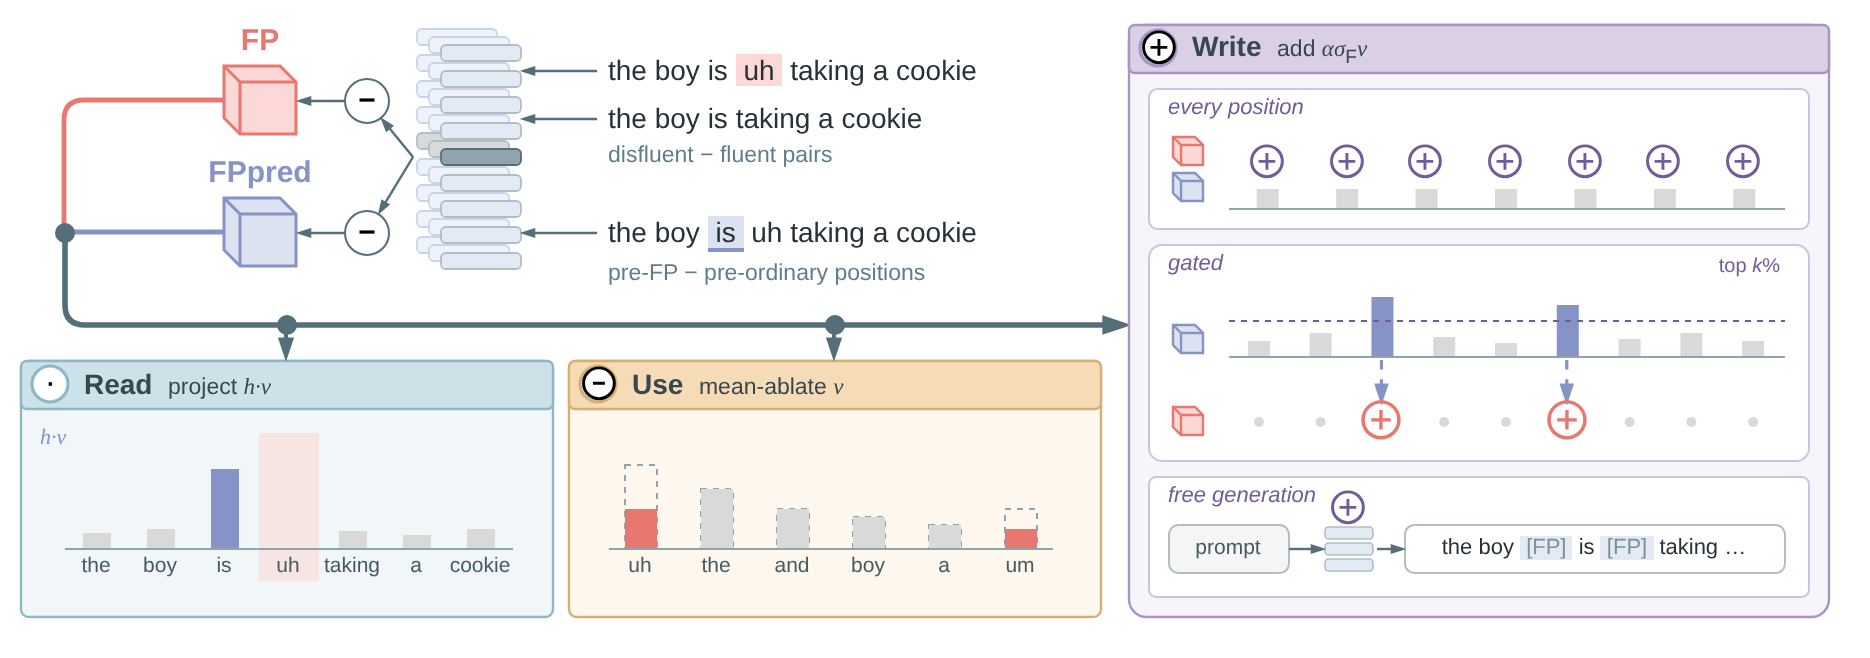
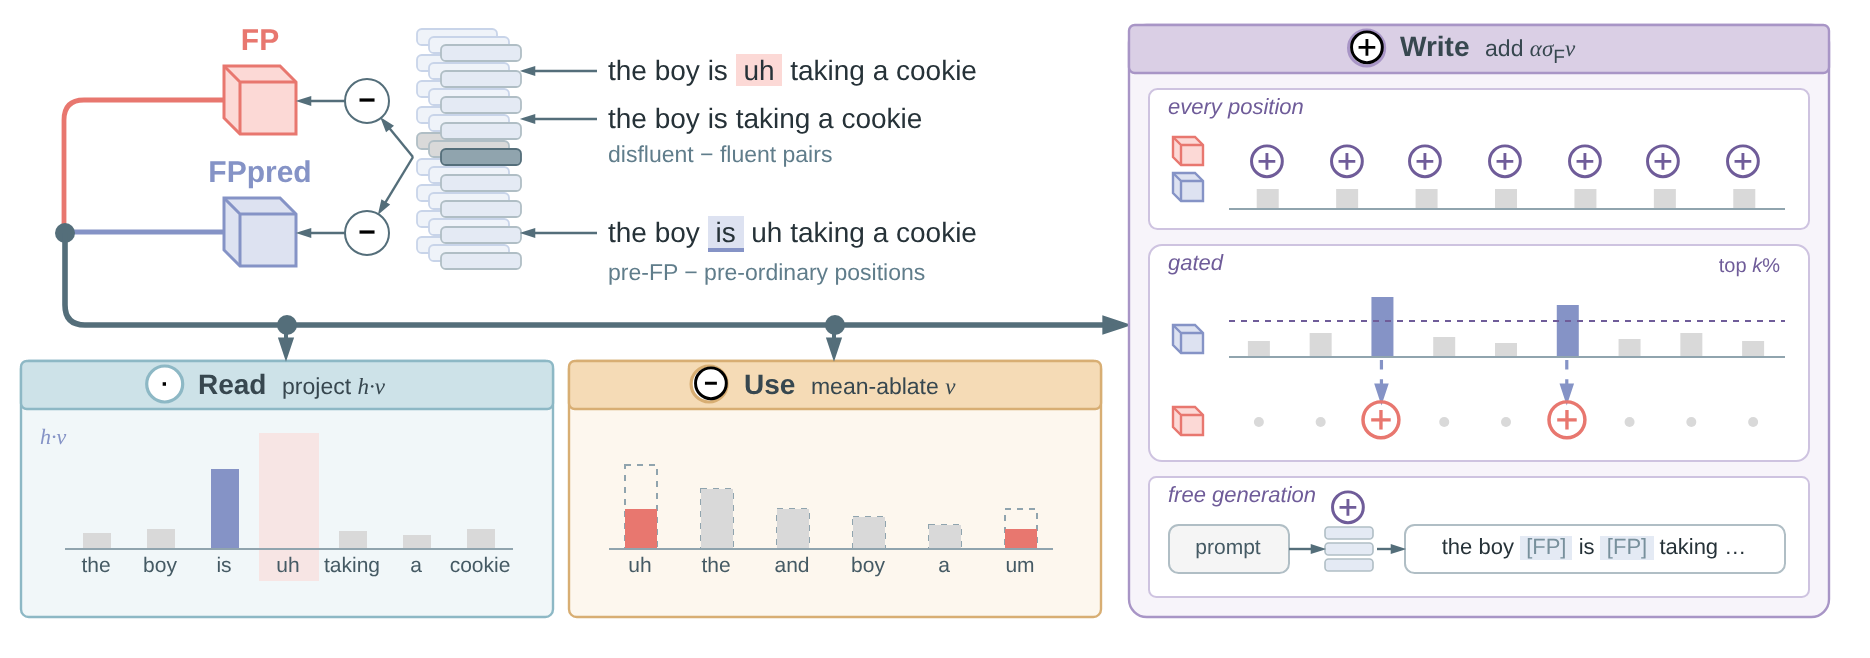
Overview figure: centre the Read/Use/Write panel headers
Claude-Session: https://claude.ai/code/session_01Nr8f45fQSeuNoeBXRTJGZT

Changed region(s): [[0.5893, 0.0304, 0.8374, 0.1216], [0.0, 0.5471, 0.2171, 0.6079], [0.3102, 0.5471, 0.5273, 0.6079]]

diff --git a/figures/gen_overview.py b/figures/gen_overview.py
@@ -150,8 +150,12 @@ for name, (x, w, y, h) in PANELS.items():
     body, head, stroke, op, formula = STYLE[name]
     v("", x, y, w, h, f"rounded=1;arcSize=3;html=1;fillColor={body};strokeColor={stroke};strokeWidth=1.2;")
     v("", x, y, w, 24, f"rounded=1;arcSize=12;html=1;fillColor={head};strokeColor={stroke};strokeWidth=1.2;")
-    v(op, x + 6, y + 3, 18, 18, f"ellipse;html=1;fillColor=#FFFFFF;strokeColor={stroke};strokeWidth=1.6;fontSize=12;fontStyle=1;" + FONT)
-    text(f"<b>{name}</b>&nbsp;&nbsp;<font style='font-size:11.5px'>{formula}</font>", x + 30, y + 2, w - 34, 20, 14, DARK)
+    # centred header: [op] Name  formula  (text width estimated from character counts)
+    plain = {"Read": "project h·v", "Use": "mean-ablate v", "Write": "add ασFv"}[name]
+    tw = len(name) * 9 + 10 + len(plain) * 6.3
+    hx0 = x + (w - (18 + 6 + tw)) / 2
+    v(op, hx0, y + 3, 18, 18, f"ellipse;html=1;fillColor=#FFFFFF;strokeColor={stroke};strokeWidth=1.6;fontSize=12;fontStyle=1;" + FONT)
+    text(f"<b>{name}</b>&nbsp;&nbsp;<font style='font-size:11.5px'>{formula}</font>", hx0 + 24, y + 2, tw + 20, 20, 14, DARK)
     if name != "Write":
         cx_ = x + w / 2
         v("", cx_ - 5, RL - 5, 10, 10, f"ellipse;html=1;fillColor={LINE};strokeColor=none;")
